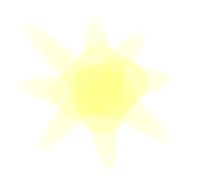
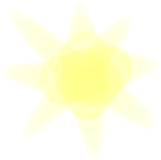
compress png files, change the jpeg to a png, and fix the footer width

diff --git a/assets/stylesheets/app.scss b/assets/stylesheets/app.scss
@@ -60,8 +60,8 @@ h2 {
     margin-top: 0;
     margin-left: 15px;
     background-image: url(image_path('sun.png'));
-    width: 200px;
-    height: 200px;
+    width: 161px;
+    height: 160px;
     z-index: -1;
   }
   .grass {
@@ -150,7 +150,7 @@ h2 {
   width: 705px;
   height: 550px;
   background-color: $grey;
-  background-image: url(image_path('fescue.jpeg'));
+  background-image: url(image_path('fescue.png'));
   box-shadow: 1px 3px 5px 5px #111;
   z-index: 5;
 }
@@ -194,6 +194,7 @@ h2 {
   background-color: $brown;
   min-height:100px;
   height: 25%;
+  width: 1200px;
   z-index: 2;
   .copy {
     margin-top: 5px;

diff --git a/app.rb b/app.rb
@@ -4,7 +4,7 @@ require 'sinatra/asset_pipeline'
 
 
 class App < Sinatra::Base
-  set :environment, :development # run the rake task to precompile assets when going production
+  set :environment, :production # run the rake task to precompile assets when going production
   register Sinatra::AssetPipeline
 
   get '/' do
